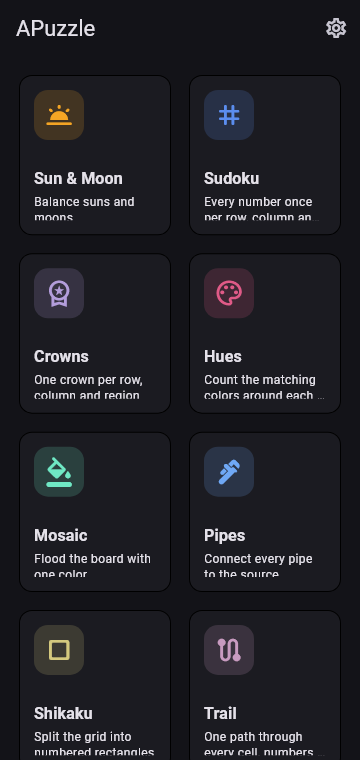
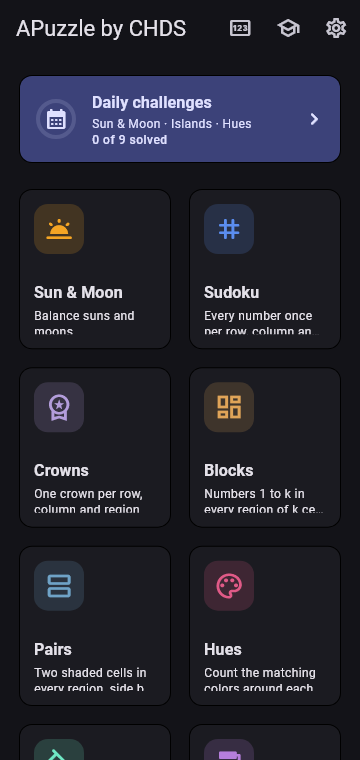
README: add 2048, Rails, Blocks, Pairs, Plots, Links and Arrows
List the seven missing games with screenshots, refresh the home screen
shot, and mention daily challenges, tutorials, share codes and the four
languages. Trail is no longer capped at 7×7.

diff --git a/README.md b/README.md
@@ -2,7 +2,7 @@
 
 A collection of grid logic puzzles for Android, Windows, iOS and the web, built with Flutter.
 Every puzzle is **generated on the device**, and a solver checks that it has **exactly one solution**.
-Mines is solved by logic without guessing, and the color-flood games and Pop are move-based instead: their limits and targets come from solver playthroughs, so they are always reachable.
+Mines is solved by logic without guessing. The color-flood games, Pop and 2048 are move-based instead: their limits and targets come from solver playthroughs or the board size, so they are always reachable.
 You choose the grid size and the difficulty.
 
 <p align="center">
@@ -18,13 +18,18 @@ You choose the grid size and the difficulty.
 | <img src="docs/screenshots/mambo_dark.png" width="90"> | **Sun & Moon** | Fill every cell with a sun or a moon. No three of the same in a row, equal counts in every row and column, and `=` / `×` clues between cells. |
 | <img src="docs/screenshots/sudoku_dark.png" width="90"> | **Sudoku** | 4×4, 6×6 or 9×9 grids. Every number appears once per row, column and box. Supports pencil marks. |
 | <img src="docs/screenshots/kings_dark.png" width="90"> | **Crowns** | Place one crown in every row, column and colored region. Crowns can't touch, not even diagonally. |
+| <img src="docs/screenshots/blocks_dark.png" width="90"> | **Blocks** | Fill every region of k cells with the numbers 1 to k. Equal numbers never touch, not even diagonally. Supports pencil marks. |
+| <img src="docs/screenshots/pairs_dark.png" width="90"> | **Pairs** | Shade exactly two cells in every region. Shaded cells come in side-by-side pairs, and pairs never touch each other. |
 | <img src="docs/screenshots/hues_light.png" width="90"> | **Hues** | Color the blank cells. Each number counts the blank cells around it (all 8 neighbors) that end up in its color. |
 | <img src="docs/screenshots/mosaic_dark.png" width="90"> | **Mosaic** | Flood the board with one color from the top-left corner, within the move limit. |
 | <img src="docs/screenshots/blend_dark.png" width="90"> | **Blend** | Pick a color and repaint any patch; it merges with touching patches of that color. Make the board one color within the move limit. |
 | <img src="docs/screenshots/pop_dark.png" width="90"> | **Pop** | Tap a group of touching same-colored bubbles to select it, tap again to pop it: n bubbles score n×(n−1). Modes: Standard, Shifter (rows slide right), Continuous (new columns roll in) and Mega (both). Goals: clear the board (Standard only, always possible), reach a target score, or free play for a best score. |
+| <img src="docs/screenshots/merge_dark.png" width="90"> | **2048** | Slide the tiles and merge equal ones. Build the target tile (2048 on a hard 4×4), or play freely for a best score. New tiles come from the seed, so a share code replays the same game. |
 | <img src="docs/screenshots/pipes_dark.png" width="90"> | **Pipes** | Rotate tiles until every pipe connects to the source, with no open ends and no loops. |
 | <img src="docs/screenshots/shikaku_light.png" width="90"> | **Shikaku** | Split the grid into rectangles. Each holds one number equal to its area. |
+| <img src="docs/screenshots/plots_dark.png" width="90"> | **Plots** | Fill every cell with a number. Equal numbers that touch form a plot with exactly that many cells, and plots of the same size never touch. |
 | <img src="docs/screenshots/trail_dark.png" width="90"> | **Trail** | Draw one path through every cell that passes the numbers in order. |
+| <img src="docs/screenshots/links_dark.png" width="90"> | **Links** | Join each pair of equal dots with a path. Paths never cross, and together they fill the whole grid. |
 | <img src="docs/screenshots/labyrinth_dark.png" width="90"> | **Labyrinth** | Walk through the maze from the top-left corner to the exit in the bottom-right corner. |
 | <img src="docs/screenshots/atoms_dark.png" width="90"> | **Atoms** | Connect atoms with single or double bonds that match their numbers. Bonds can't cross, and all atoms must end up connected. |
 | <img src="docs/screenshots/lits_dark.png" width="90"> | **Tetra** | Shade one L, I, T or S tetromino in every region. The shaded area is connected, with no 2×2 blocks, and identical shapes never touch across region borders. |
@@ -33,11 +38,16 @@ You choose the grid size and the difficulty.
 | <img src="docs/screenshots/lamps_dark.png" width="90"> | **Lamps** | Place lamps that light their row and column up to the walls. Light every cell, never shine a lamp on another, and match the numbers on the walls. |
 | <img src="docs/screenshots/fence_dark.png" width="90"> | **Fence** | Draw one loop along the grid lines. A number tells how many sides of its cell the loop uses. |
 | <img src="docs/screenshots/pearls_dark.png" width="90"> | **Pearls** | Draw one loop through the cell centres and every pearl: straight through white pearls (turning next to them), turning on black pearls (going straight next to them). |
+| <img src="docs/screenshots/rails_dark.png" width="90"> | **Rails** | Lay one track from the entry on the left to the exit at the bottom. The counts outside the grid give the track cells per row and column, and given pieces are fixed. |
+| <img src="docs/screenshots/arrows_dark.png" width="90"> | **Arrows** | Shade some cells and draw one loop through all the others. Shaded cells never touch, and each arrow clue counts the shaded cells in its direction. |
 | <img src="docs/screenshots/mines_dark.png" width="90"> | **Mines** | Clear every cell without a mine. Numbers count the mines around them, and the start is chosen so that logic alone clears the board. |
 
 ## Features
 
 - **Endless puzzles.** Generation is seeded and deterministic, and runs in a background isolate.
+- **Daily challenges.** Every day picks three games, each at every difficulty, the same for everyone. Results are kept in a calendar.
+- **Interactive tutorials.** Every game teaches its rules on a few tiny boards you play, ending with a small real one.
+- **Share codes.** Every puzzle has a code (and a link on the web) that recreates it exactly.
 - **Exactly one solution.** Most types are also graded by how deep the solver's logic has to go (easy, medium, hard, and expert for Sudoku).
 - **Game options.** A puzzle can offer extra choices when you start a game, like Pop's mode and goal. They are part of the share code, and stats are kept per choice.
 - **Variable grid sizes.** A size is only offered if it fits the screen, so there's no zooming.
@@ -47,6 +57,7 @@ You choose the grid size and the difficulty.
 - **Auto-save.** Leave at any time and continue where you stopped.
 - **Animations.** Cells pop and fade, pipes rotate, colors flood, bubbles fall and slide, and solving plays a ripple with confetti.
 - **Light and dark themes** (Material 3).
+- **Four languages:** English, Ukrainian, Polish and German.
 
 ## Getting started
 
@@ -120,7 +131,7 @@ To add a puzzle:
 
 ## Status
 
-The Trail and Tetra generators are currently limited to 7×7. At larger sizes, proving the solution is unique is still too slow to do on the device.
+The Tetra generator is currently limited to 7×7. At larger sizes, proving the solution is unique is still too slow to do on the device.
 
 ## License
 
